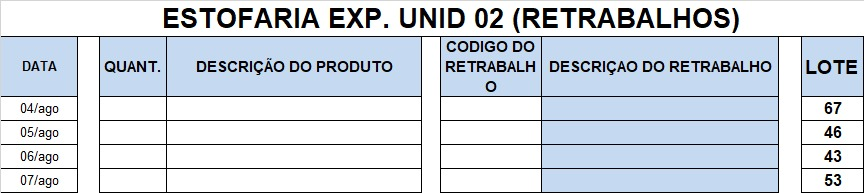
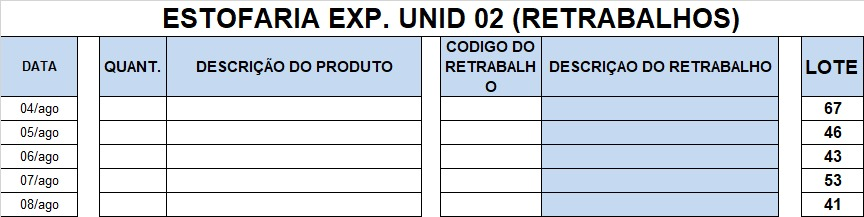
,

diff --git a/back__incial.js b/back__incial.js
@@ -3417,6 +3417,8 @@ const unidades = {
             { data: "18/07/2025", captura: ["capturas/Retrabalhos/2025/JULHO/Unidade 1/Cab.Fundo/18 pt01.jpg", "capturas/Retrabalhos/2025/JULHO/Unidade 1/Cab.Fundo/18 pt02.jpg", "capturas/Retrabalhos/2025/JULHO/Unidade 1/Cab.Fundo/18 pt03.jpg", "capturas/Retrabalhos/2025/JULHO/Unidade 1/Cab.Fundo/18 pt04.jpg", "capturas/Retrabalhos/2025/JULHO/Unidade 1/Cab.Fundo/18 G.jpg"] },
             { data: "25/07/2025", captura: ["capturas/Retrabalhos/2025/JULHO/Unidade 1/Cab.Fundo/25 pt01.jpg", "capturas/Retrabalhos/2025/JULHO/Unidade 1/Cab.Fundo/25 pt02.jpg", "capturas/Retrabalhos/2025/JULHO/Unidade 1/Cab.Fundo/25 pt03.jpg", "capturas/Retrabalhos/2025/JULHO/Unidade 1/Cab.Fundo/25 pt04.jpg", "capturas/Retrabalhos/2025/JULHO/Unidade 1/Cab.Fundo/25G.jpg"] },
             { data: "01/08/2025", captura: ["capturas/Retrabalhos/2025/AGOSTO/Unidade 1/Cab.Fundo/01 PT01.jpg", "capturas/Retrabalhos/2025/AGOSTO/Unidade 1/Cab.Fundo/01 PT02.jpg", "capturas/Retrabalhos/2025/AGOSTO/Unidade 1/Cab.Fundo/01 PT03.jpg", "capturas/Retrabalhos/2025/AGOSTO/Unidade 1/Cab.Fundo/01 PT04.jpg", "capturas/Retrabalhos/2025/AGOSTO/Unidade 1/Cab.Fundo/01 G.jpg"] },
+            { data: "08/08/2025", captura: ["capturas/Retrabalhos/2025/AGOSTO/Unidade 1/Cab.Fundo/08 PT01.jpg", "capturas/Retrabalhos/2025/AGOSTO/Unidade 1/Cab.Fundo/08 PT02.jpg", "capturas/Retrabalhos/2025/AGOSTO/Unidade 1/Cab.Fundo/08 PT03.jpg", "capturas/Retrabalhos/2025/AGOSTO/Unidade 1/Cab.Fundo/08 PT04.jpg", "capturas/Retrabalhos/2025/AGOSTO/Unidade 1/Cab.Fundo/08 g.jpg"] },
+
 
 
             // { data: "", captura: ["", "", "", "", ""] },
@@ -3581,6 +3583,8 @@ const unidades = {
             { data: "18/07/2025", captura: ["capturas/Retrabalhos/2025/JULHO/Unidade 1/Expedição/18 PT01.jpg", "capturas/Retrabalhos/2025/JULHO/Unidade 1/Expedição/18 PT02.jpg", "capturas/Retrabalhos/2025/JULHO/Unidade 1/Expedição/18 PT03.jpg", "capturas/Retrabalhos/2025/JULHO/Unidade 1/Expedição/18 PT04.jpg", "capturas/Retrabalhos/2025/JULHO/Unidade 1/Expedição/18 G.jpg"] },
             { data: "25/07/2025", captura: ["capturas/Retrabalhos/2025/JULHO/Unidade 1/Expedição/25 PT01.jpg", "capturas/Retrabalhos/2025/JULHO/Unidade 1/Expedição/25 PT02.jpg", "capturas/Retrabalhos/2025/JULHO/Unidade 1/Expedição/25 PT03.jpg", "capturas/Retrabalhos/2025/JULHO/Unidade 1/Expedição/25 PT04.jpg", "capturas/Retrabalhos/2025/JULHO/Unidade 1/Expedição/25g.jpg"] },
             { data: "01/08/2025", captura: ["capturas/Retrabalhos/2025/AGOSTO/Unidade 1/Expedição/01 PT01.jpg", "capturas/Retrabalhos/2025/AGOSTO/Unidade 1/Expedição/01 PT02.jpg", "capturas/Retrabalhos/2025/AGOSTO/Unidade 1/Expedição/01 PT03.jpg", "capturas/Retrabalhos/2025/AGOSTO/Unidade 1/Expedição/01 PT04.jpg", "capturas/Retrabalhos/2025/AGOSTO/Unidade 1/Expedição/01 G.jpg"] },
+            { data: "08/08/2025", captura: ["capturas/Retrabalhos/2025/AGOSTO/Unidade 1/Expedição/08 PT01.jpg", "capturas/Retrabalhos/2025/AGOSTO/Unidade 1/Expedição/08 PT02.jpg", "capturas/Retrabalhos/2025/AGOSTO/Unidade 1/Expedição/08 PT03.jpg", "capturas/Retrabalhos/2025/AGOSTO/Unidade 1/Expedição/08 PT04.jpg", "capturas/Retrabalhos/2025/AGOSTO/Unidade 1/Expedição/08 G.jpg"] },
+
 
 
             // { data: "", captura: ["", "", "", "", ""] },
@@ -3743,7 +3747,7 @@ const unidades = {
             { data: "18/07/2025", captura: ["capturas/Retrabalhos/2025/JULHO/Unidade 1/Osso/18 pt01.jpg", "capturas/Retrabalhos/2025/JULHO/Unidade 1/Osso/18 pt02.jpg", "capturas/Retrabalhos/2025/JULHO/Unidade 1/Osso/18 pt03.jpg", "capturas/Retrabalhos/2025/JULHO/Unidade 1/Osso/18 pt04.jpg", "capturas/Retrabalhos/2025/JULHO/Unidade 1/Osso/18g.jpg"] },
             { data: "25/07/2025", captura: ["capturas/Retrabalhos/2025/JULHO/Unidade 1/Osso/25 pt01.jpg", "capturas/Retrabalhos/2025/JULHO/Unidade 1/Osso/25 pt02.jpg", "capturas/Retrabalhos/2025/JULHO/Unidade 1/Osso/25 pt03.jpg", "capturas/Retrabalhos/2025/JULHO/Unidade 1/Osso/25 pt04.jpg", "capturas/Retrabalhos/2025/JULHO/Unidade 1/Osso/25g.jpg"] },
             { data: "01/08/2025", captura: ["capturas/Retrabalhos/2025/AGOSTO/Unidade 1/Osso/01 pt 01.jpg", "capturas/Retrabalhos/2025/AGOSTO/Unidade 1/Osso/01 pt 02.jpg", "capturas/Retrabalhos/2025/AGOSTO/Unidade 1/Osso/01 pt 03.jpg", "capturas/Retrabalhos/2025/AGOSTO/Unidade 1/Osso/01 pt 04.jpg", "capturas/Retrabalhos/2025/AGOSTO/Unidade 1/Osso/01 g.jpg"] },
-
+            { data: "08/08/2025", captura: ["capturas/Retrabalhos/2025/AGOSTO/Unidade 1/Osso/08 pt 01.jpg", "capturas/Retrabalhos/2025/AGOSTO/Unidade 1/Osso/08 pt 02.jpg", "capturas/Retrabalhos/2025/AGOSTO/Unidade 1/Osso/08 pt 03.jpg", "capturas/Retrabalhos/2025/AGOSTO/Unidade 1/Osso/08 pt 04.jpg", "capturas/Retrabalhos/2025/AGOSTO/Unidade 1/Osso/08 g.jpg"] },
 
             
             // { data: "", captura: ["", "", "", "", ""] },
@@ -3905,6 +3909,8 @@ const unidades = {
             { data: "18/07/2025", captura: ["capturas/Retrabalhos/2025/JULHO/Unidade 1/Usinagem/18 pt01.jpg", "capturas/Retrabalhos/2025/JULHO/Unidade 1/Usinagem/18 pt02.jpg", "capturas/Retrabalhos/2025/JULHO/Unidade 1/Usinagem/18 pt03.jpg", "capturas/Retrabalhos/2025/JULHO/Unidade 1/Usinagem/18 pt04.jpg", "capturas/Retrabalhos/2025/JULHO/Unidade 1/Usinagem/18 g.jpg"] },
             { data: "25/07/2025", captura: ["capturas/Retrabalhos/2025/JULHO/Unidade 1/Usinagem/25 pt01.jpg", "capturas/Retrabalhos/2025/JULHO/Unidade 1/Usinagem/25 pt02.jpg", "capturas/Retrabalhos/2025/JULHO/Unidade 1/Usinagem/25 pt03.jpg", "capturas/Retrabalhos/2025/JULHO/Unidade 1/Usinagem/25 pt04.jpg", "capturas/Retrabalhos/2025/JULHO/Unidade 1/Usinagem/25 G.jpg"] },
             { data: "01/08/2025", captura: ["capturas/Retrabalhos/2025/AGOSTO/Unidade 1/Usinagem/01 PT01.jpg", "capturas/Retrabalhos/2025/AGOSTO/Unidade 1/Usinagem/01 PT02.jpg", "capturas/Retrabalhos/2025/AGOSTO/Unidade 1/Usinagem/01 PT03.jpg", "capturas/Retrabalhos/2025/AGOSTO/Unidade 1/Usinagem/01 PT034.jpg", "capturas/Retrabalhos/2025/AGOSTO/Unidade 1/Usinagem/01 G.jpg"] },
+            { data: "08/08/2025", captura: ["capturas/Retrabalhos/2025/AGOSTO/Unidade 1/Usinagem/08 PT01.jpg", "capturas/Retrabalhos/2025/AGOSTO/Unidade 1/Usinagem/08 PT02.jpg", "capturas/Retrabalhos/2025/AGOSTO/Unidade 1/Usinagem/08 PT03.jpg", "capturas/Retrabalhos/2025/AGOSTO/Unidade 1/Usinagem/08 PT04.jpg", "capturas/Retrabalhos/2025/AGOSTO/Unidade 1/Usinagem/08G.jpg"] },
+
 
             
             // { data: "", captura: [""] },
@@ -4077,6 +4083,7 @@ const unidades = {
             { data: "18/07/2025", captura: ["capturas/Retrabalhos/2025/JULHO/Unidade 2/Curvados/18 PT01.jpg", "capturas/Retrabalhos/2025/JULHO/Unidade 2/Curvados/18 PT02.jpg", "capturas/Retrabalhos/2025/JULHO/Unidade 2/Curvados/18g.jpg"] },
             { data: "25/07/2025", captura: ["capturas/Retrabalhos/2025/JULHO/Unidade 2/Curvados/25 PT01.jpg", "capturas/Retrabalhos/2025/JULHO/Unidade 2/Curvados/25 PT02.jpg", "capturas/Retrabalhos/2025/JULHO/Unidade 2/Curvados/25 G.jpg"] },
             { data: "01/08/2025", captura: ["capturas/Retrabalhos/2025/AGOSTO/Unidade 2/Curvados/01 PT01.jpg", "capturas/Retrabalhos/2025/AGOSTO/Unidade 2/Curvados/01 PT02.jpg", "capturas/Retrabalhos/2025/AGOSTO/Unidade 2/Curvados/01 G.jpg"] },
+            { data: "08/08/2025", captura: ["capturas/Retrabalhos/2025/AGOSTO/Unidade 2/Curvados/08 PT01.jpg", "capturas/Retrabalhos/2025/AGOSTO/Unidade 2/Curvados/08 PT02.jpg", "capturas/Retrabalhos/2025/AGOSTO/Unidade 2/Curvados/08G.jpg"] },
 
 
            
@@ -4242,7 +4249,7 @@ const unidades = {
             { data: "18/07/2025", captura: ["capturas/Retrabalhos/2025/JULHO/Unidade 2/Estofaria/18 PT1.jpg", "capturas/Retrabalhos/2025/JULHO/Unidade 2/Estofaria/18 PT2.jpg", "capturas/Retrabalhos/2025/JULHO/Unidade 2/Estofaria/18g.jpg"] },
             { data: "25/07/2025", captura: ["capturas/Retrabalhos/2025/JULHO/Unidade 2/Estofaria/25 PT1.jpg", "capturas/Retrabalhos/2025/JULHO/Unidade 2/Estofaria/25 PT2.jpg", "capturas/Retrabalhos/2025/JULHO/Unidade 2/Estofaria/25 G.jpg"] },
             { data: "01/08/2025", captura: ["capturas/Retrabalhos/2025/AGOSTO/Unidade 2/Estofaria/01 PT01.jpg", "capturas/Retrabalhos/2025/AGOSTO/Unidade 2/Estofaria/01 PT02.jpg", "capturas/Retrabalhos/2025/AGOSTO/Unidade 2/Estofaria/01 G.jpg"] },
-
+            { data: "08/08/2025", captura: ["capturas/Retrabalhos/2025/AGOSTO/Unidade 2/Estofaria/08 PT01.jpg", "capturas/Retrabalhos/2025/AGOSTO/Unidade 2/Estofaria/08 PT02.jpg", "capturas/Retrabalhos/2025/AGOSTO/Unidade 2/Estofaria/08 G.jpg"] },
 
 
             // { data: "", captura: ["", "", ""] },
@@ -4414,7 +4421,7 @@ const unidades = {
             { data: "18/07/2025", captura: ["capturas/Retrabalhos/2025/JULHO/Unidade 2/Expedição/18 PT1.jpg", "capturas/Retrabalhos/2025/JULHO/Unidade 2/Expedição/18 PT2.jpg", "capturas/Retrabalhos/2025/JULHO/Unidade 2/Expedição/18g.jpg"] },
             { data: "25/07/2025", captura: ["capturas/Retrabalhos/2025/JULHO/Unidade 2/Expedição/25 PT1.jpg", "capturas/Retrabalhos/2025/JULHO/Unidade 2/Expedição/25 PT2.jpg", "capturas/Retrabalhos/2025/JULHO/Unidade 2/Expedição/25G.jpg"] },
             { data: "01/08/2025", captura: ["capturas/Retrabalhos/2025/AGOSTO/Unidade 2/Expedição/01 PT01.jpg", "capturas/Retrabalhos/2025/AGOSTO/Unidade 2/Expedição/01 PT02.jpg", "capturas/Retrabalhos/2025/AGOSTO/Unidade 2/Expedição/1 G.jpg"] },
-            
+            { data: "08/08/2025", captura: ["capturas/Retrabalhos/2025/AGOSTO/Unidade 2/Expedição/08 PT01.jpg", "capturas/Retrabalhos/2025/AGOSTO/Unidade 2/Expedição/08 PT02.jpg", "capturas/Retrabalhos/2025/AGOSTO/Unidade 2/Expedição/08 g.jpg"] },
 
 
             // { data: "", captura: ["", "", ""] },
@@ -4580,7 +4587,7 @@ const unidades = {
             { data: "18/07/2025", captura: ["capturas/Retrabalhos/2025/JULHO/Unidade 2/Osso/18 PT 01.jpg", "capturas/Retrabalhos/2025/JULHO/Unidade 2/Osso/18 PT 02.jpg", "capturas/Retrabalhos/2025/JULHO/Unidade 2/Osso/18 G.jpg"] },
             { data: "25/07/2025", captura: ["capturas/Retrabalhos/2025/JULHO/Unidade 2/Osso/25 PT 01.jpg", "capturas/Retrabalhos/2025/JULHO/Unidade 2/Osso/25 PT 02.jpg", "capturas/Retrabalhos/2025/JULHO/Unidade 2/Osso/25 G.jpg"] },
             { data: "01/08/2025", captura: ["capturas/Retrabalhos/2025/AGOSTO/Unidade 2/Osso/01 PT01.jpg", "capturas/Retrabalhos/2025/AGOSTO/Unidade 2/Osso/01 PT02.jpg", "capturas/Retrabalhos/2025/AGOSTO/Unidade 2/Osso/01 G.jpg"] },
-           
+            { data: "08/08/2025", captura: ["capturas/Retrabalhos/2025/AGOSTO/Unidade 2/Osso/08 PT01.jpg", "capturas/Retrabalhos/2025/AGOSTO/Unidade 2/Osso/08 PT02.jpg", "capturas/Retrabalhos/2025/AGOSTO/Unidade 2/Osso/08 G.jpg"] },
 
 
 
@@ -4786,6 +4793,7 @@ const unidades = {
             { data: "18/07/2025", captura: ["capturas/Retrabalhos/2025/JULHO/Unidade 2/Usinagem/18 PT1.jpg", "capturas/Retrabalhos/2025/JULHO/Unidade 2/Usinagem/18 PT2.jpg", "capturas/Retrabalhos/2025/JULHO/Unidade 2/Usinagem/18 PT3.jpg", "capturas/Retrabalhos/2025/JULHO/Unidade 2/Usinagem/18 PT4.jpg", "capturas/Retrabalhos/2025/JULHO/Unidade 2/Usinagem/18 G.jpg"] },
             { data: "25/07/2025", captura: ["capturas/Retrabalhos/2025/JULHO/Unidade 2/Usinagem/25 PT1.jpg", "capturas/Retrabalhos/2025/JULHO/Unidade 2/Usinagem/25 PT2.jpg", "capturas/Retrabalhos/2025/JULHO/Unidade 2/Usinagem/25 PT3.jpg", "capturas/Retrabalhos/2025/JULHO/Unidade 2/Usinagem/25 PT4.jpg", "capturas/Retrabalhos/2025/JULHO/Unidade 2/Usinagem/25G.jpg"] },
             { data: "01/08/2025", captura: ["capturas/Retrabalhos/2025/AGOSTO/Unidade 2/Usinagem/01 PT01.jpg", "capturas/Retrabalhos/2025/AGOSTO/Unidade 2/Usinagem/01 PT02.jpg", "capturas/Retrabalhos/2025/AGOSTO/Unidade 2/Usinagem/01 PT03.jpg", "capturas/Retrabalhos/2025/AGOSTO/Unidade 2/Usinagem/01 PT04.jpg", "capturas/Retrabalhos/2025/AGOSTO/Unidade 2/Usinagem/01 G.jpg"] },
+            { data: "08/08/2025", captura: ["capturas/Retrabalhos/2025/AGOSTO/Unidade 2/Usinagem/08 PT01.jpg", "capturas/Retrabalhos/2025/AGOSTO/Unidade 2/Usinagem/08 PT02.jpg", "capturas/Retrabalhos/2025/AGOSTO/Unidade 2/Usinagem/08 PT03.jpg", "capturas/Retrabalhos/2025/AGOSTO/Unidade 2/Usinagem/08 PT04.jpg", "capturas/Retrabalhos/2025/AGOSTO/Unidade 2/Usinagem/08 G.jpg"] },
 
             
             // { data: "", captura: ["", "", "", "", ""] },
@@ -4944,7 +4952,7 @@ const unidades = {
            { data: "18/07/2025", captura: ["capturas/Retrabalhos/2025/JULHO/Unidade 3/18 PT01.jpg", "capturas/Retrabalhos/2025/JULHO/Unidade 3/18 PT02.jpg", "capturas/Retrabalhos/2025/JULHO/Unidade 3/18 PT03.jpg", "capturas/Retrabalhos/2025/JULHO/Unidade 3/18 PT04.jpg", "capturas/Retrabalhos/2025/JULHO/Unidade 3/18 G.jpg"] },
            { data: "25/07/2025", captura: ["capturas/Retrabalhos/2025/JULHO/Unidade 3/25 PT01.jpg", "capturas/Retrabalhos/2025/JULHO/Unidade 3/25 PT02.jpg", "capturas/Retrabalhos/2025/JULHO/Unidade 3/25 PT03.jpg", "capturas/Retrabalhos/2025/JULHO/Unidade 3/25 PT04.jpg", "capturas/Retrabalhos/2025/JULHO/Unidade 3/25G.jpg"] },
            { data: "01/08/2025", captura: ["capturas/Retrabalhos/2025/AGOSTO/Unidade 3/01 PT01.jpg", "capturas/Retrabalhos/2025/AGOSTO/Unidade 3/01 PT02.jpg", "capturas/Retrabalhos/2025/AGOSTO/Unidade 3/01 PT03.jpg", "capturas/Retrabalhos/2025/AGOSTO/Unidade 3/01 PT04.jpg", "capturas/Retrabalhos/2025/AGOSTO/Unidade 3/01 G.jpg"] },
-
+           { data: "08/08/2025", captura: ["capturas/Retrabalhos/2025/AGOSTO/Unidade 3/08 PT01.jpg", "capturas/Retrabalhos/2025/AGOSTO/Unidade 3/08 PT02.jpg", "capturas/Retrabalhos/2025/AGOSTO/Unidade 3/08 PT03.jpg", "capturas/Retrabalhos/2025/AGOSTO/Unidade 3/08 PT04.jpg", "capturas/Retrabalhos/2025/AGOSTO/Unidade 3/08 G.jpg"] },
 
             
            // { data: "", captura: ["", "", "", "", ""] },
@@ -5104,8 +5112,11 @@ const unidades = {
             { data: "18/07/2025", captura: ["capturas/Retrabalhos/2025/JULHO/Unidade 4/18 PT01.jpg", "capturas/Retrabalhos/2025/JULHO/Unidade 4/18 PT02.jpg", "capturas/Retrabalhos/2025/JULHO/Unidade 4/18 G.jpg"] },  
             { data: "25/07/2025", captura: ["capturas/Retrabalhos/2025/JULHO/Unidade 4/25 PT01.jpg", "capturas/Retrabalhos/2025/JULHO/Unidade 4/25 PT02.jpg", "capturas/Retrabalhos/2025/JULHO/Unidade 4/25G.jpg"] },  
             { data: "01/08/2025", captura: ["capturas/Retrabalhos/2025/AGOSTO/Unidade 4/01 PT1.jpg", "capturas/Retrabalhos/2025/AGOSTO/Unidade 4/01 PT2.jpg", "capturas/Retrabalhos/2025/AGOSTO/Unidade 4/01 G.jpg"] },  
+            { data: "08/08/2025", captura: ["capturas/Retrabalhos/2025/AGOSTO/Unidade 4/08 PT1.jpg", "capturas/Retrabalhos/2025/AGOSTO/Unidade 4/08 PT2.jpg", "capturas/Retrabalhos/2025/AGOSTO/Unidade 4/08 G.jpg"] },  
 
 
+
+            
             //   { data: "", captura: ["", "", ""] },  
 
         ],
